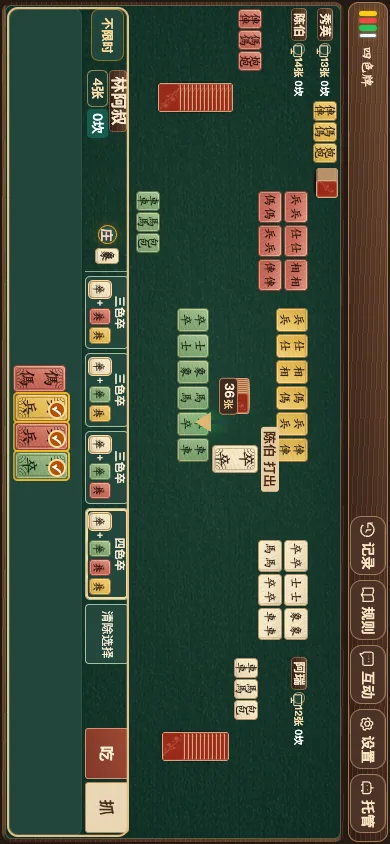
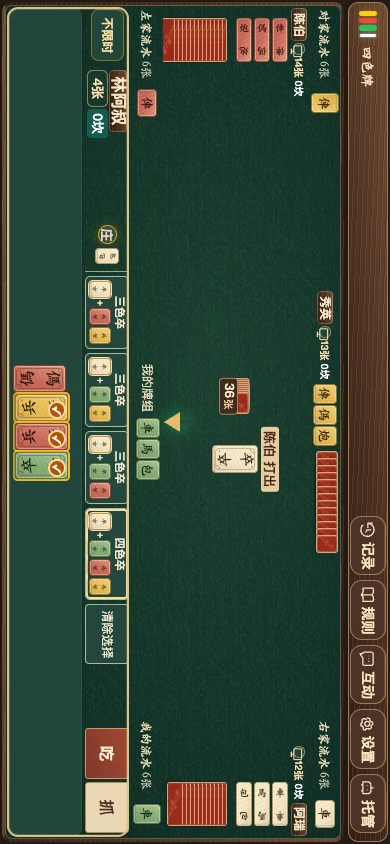
fix(cards): preserve assisted lettering and verify the final mobile table

diff --git a/tests/e2e/mobile-table-appearance.spec.ts b/tests/e2e/mobile-table-appearance.spec.ts
@@ -118,7 +118,10 @@ async function assertDensity(page: Page, classic = true, paged = false) {
       contained: areas.every(el => contained(el.getBoundingClientRect())),
       hitSizes: cards.every(c => c.offsetWidth >= 28 && c.offsetHeight >= 44),
       fonts: cards.every(c => parseFloat(getComputedStyle(c.querySelector('.text')!).fontSize) >= 13.95),
-      flowFonts: [...board.querySelectorAll('.discard-token .text')].every(c => parseFloat(getComputedStyle(c).fontSize) >= 9.95),
+      flowFonts: [...board.querySelectorAll('.discard-token')].every(card => {
+        const names = [...card.querySelectorAll('.text')].filter(name => name.getClientRects().length > 0);
+        return names.length > 0 && names.every(name => parseFloat(getComputedStyle(name).fontSize) >= 9.95);
+      }),
       topWidth: topLeft.clientWidth / table.clientWidth, groupWidth: group.clientWidth / (table.clientWidth - parseFloat(getComputedStyle(table).paddingLeft) - parseFloat(getComputedStyle(table).paddingRight)),
       topLeftInset: topLeft.offsetLeft, topRightInset: table.clientWidth-topRight.offsetLeft-topRight.offsetWidth,
       railBackground: getComputedStyle(board.querySelector('.self-command-row')!).backgroundColor,

diff --git a/client/src/appearance.css b/client/src/appearance.css
@@ -901,7 +901,7 @@ html[data-skin="puxian-house"] .board[data-table-layout="mahjong"] .self-groups-
   }
 }
 
-html[data-skin="puxian-house"] .board[data-table-layout="mahjong"] .center-pointer.pointer-down {
+html[data-skin="puxian-house"] .board:is([data-table-layout="mahjong"], [data-table-layout="compact"]) .center-pointer.pointer-down {
   bottom: 2px;
 }
 

diff --git a/client/src/components/Card.vue b/client/src/components/Card.vue
@@ -233,7 +233,7 @@ const modeClass = computed<RenderedCardMode>(() => props.mode ?? "long");
   grid-template-rows: repeat(2, minmax(0, 1fr));
   row-gap: 16%;
 }
-.mode-long .text {
+:where(html:not(.show-card-color-assist)) .mode-long .text {
   align-self: center;
   justify-self: center;
   width: 1em;

diff --git a/docs/validation/table-fidelity/README.md b/docs/validation/table-fidelity/README.md
@@ -2,6 +2,16 @@
 
 [最初的美术概念](../paper-table/material-study.webp)用于对照墨青织面、深木边沿、花枝牌背、纸边浅纹和画面层次。完整长牌的两端各印一个相同的牌字，下端旋转 180°。三家的暗背读取公开剩余张数，明牌和能向当前玩家公开的鱼沿用牌局已有的分组。
 
+手机横屏把对家放在桌子上沿，左右两家的明组与牌背贴各自桌沿。桌心保留牌堆、来牌及来源。四角的流水标出是谁打的和已经打了几张，在一条流水内滑动可以看更早的牌；用键盘聚焦后也可以翻看。自己的牌组在手牌上方，可选吃法紧邻「吃」按钮。
+
+## 自然发牌的手机中盘
+
+用 844 × 390 的 Chrome 从普通练习入口开始一局随机发牌，以练习引擎的合法机器人决策推进，无牌面或牌数注入。截图时有两家对手已经成组，四条流水合计五张，自己手中十七张。旁观吃牌的张数变化另用好友房验证。
+
+![手机横屏自然发牌中盘](practice-midgame-844x390.webp)
+
+## 同一桌况的前后对照
+
 - 开局图从普通练习入口实际进桌，按该局开局实际发牌和电脑行为取图。
 - 中盘图在本地测试服务用同一个 `chi_local_upper_zu4` 夹具。桌上来牌为白卒，红兵、黄兵、绿卒已选；三家公开余牌依席位分别为 13、14、12。两版使用同样的名字、明组和流水。
 - 基线提交为 `4f5d993`。两版以 Chrome 的原尺寸视口截图。568×320 保留易读的大字自适应，设置中仍可以选长牌。
@@ -17,7 +27,7 @@
 
 ## 另一席观察实际吃牌
 
-在本地好友房以两个 Chrome 上下文分别入座。服务端使用 `chi_collective_confirm` 初始化局面。房主在实际界面选红马、红炮，点击「吃」。另一席监听到 `seat_0 CHI` 后，读到剩余手牌从 5 张降到 3 张，公开区收到 `confirm-target`、`confirm-ma`、`confirm-pao` 各一张，画面中的暗背变为 3 张，明组进入同一席位牌带。这两张图是测试房在动作发生前与落牌时截取的观察端实装。
+在本地好友房以两个 Chrome 上下文分别入座。服务端使用 `chi_collective_confirm` 初始化局面。房主在实际界面选红马、红炮，点击「吃」。另一席监听到 `seat_0 CHI` 后，读到剩余手牌从 5 张降到 3 张，公开区收到 `confirm-target`、`confirm-ma`、`confirm-pao` 各一张，画面中的暗背变为 3 张，明组进入同一席位牌带。这两张图记录排版迭代期间的观察端，用于核对公开牌和剩余张数。终版外观见上方的自然中盘和同桌况对照。
 
 [吃牌前 844 × 390](observer-before-chi-844x390.webp) · [吃牌后 844 × 390](observer-after-chi-844x390.webp)
 
